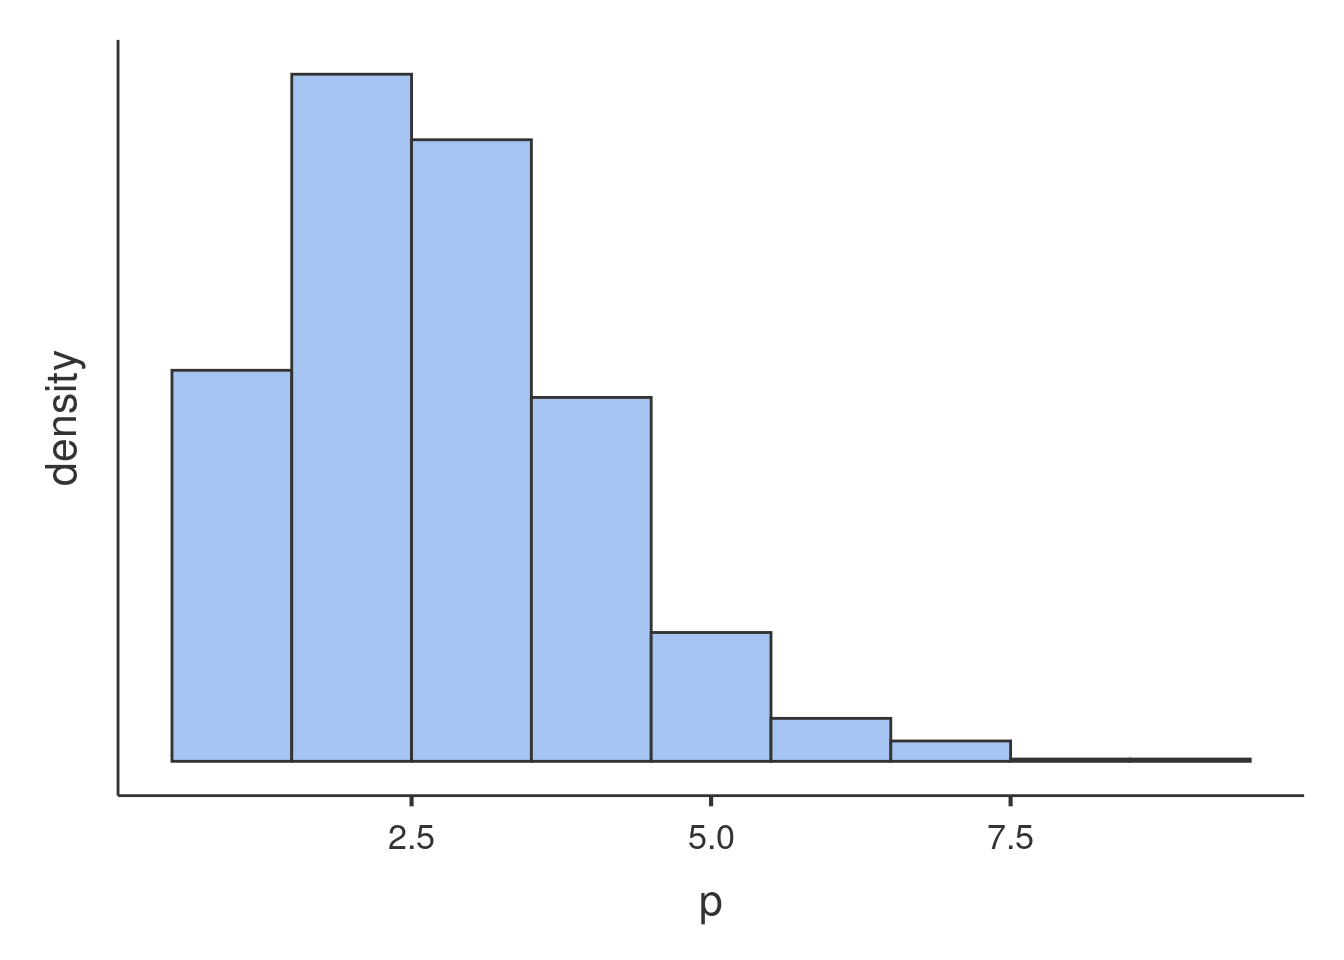
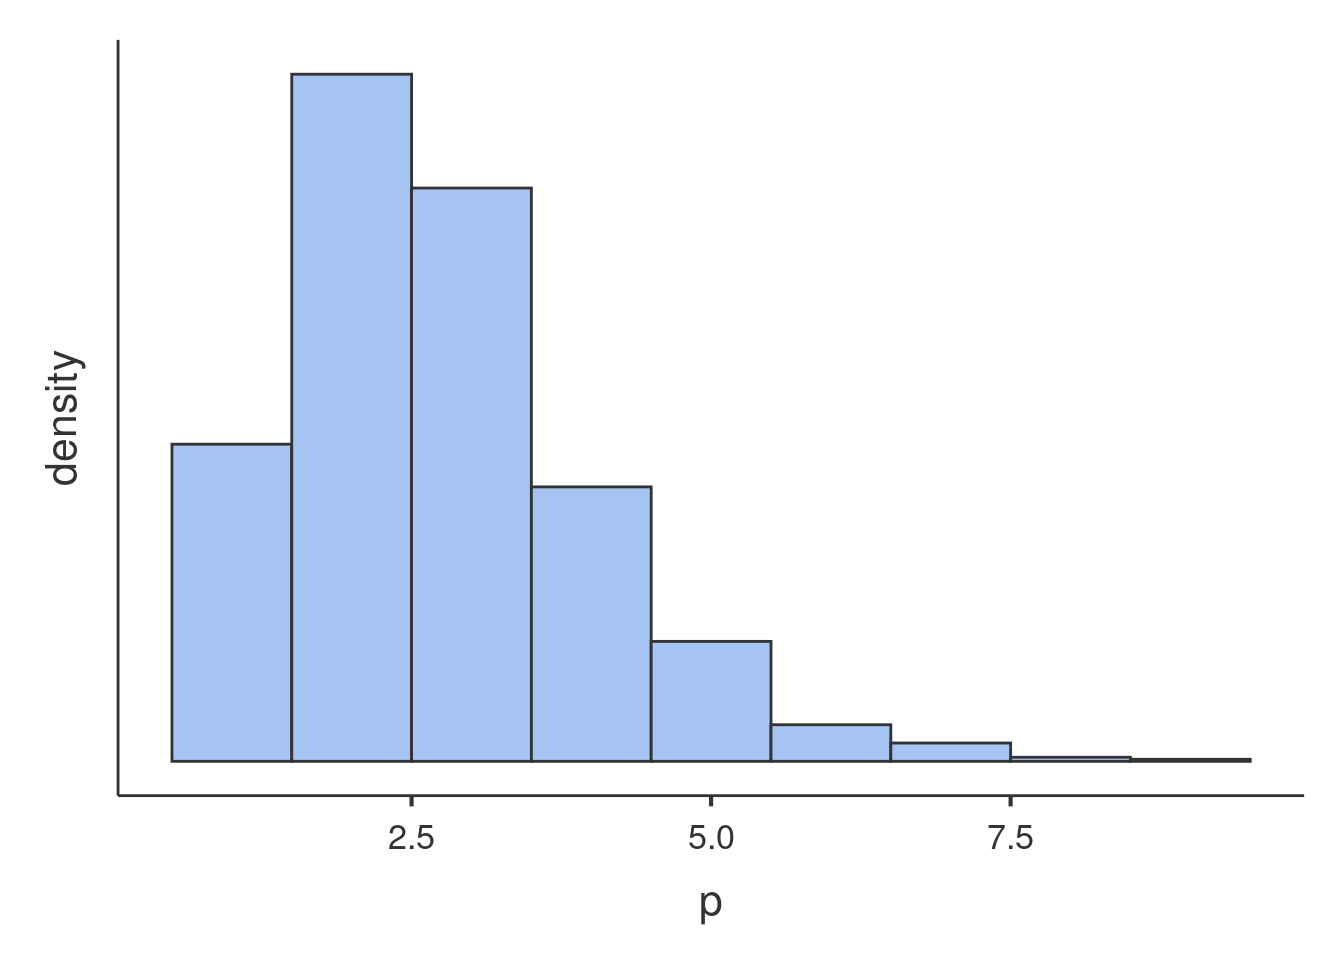
updates

diff --git a/docssource/glmmixed_example2.html b/docssource/glmmixed_example2.html
@@ -389,7 +389,7 @@ div.tocify {
 <p><img src="glmmixed_example2_files/figure-html/unnamed-chunk-2-1.png" width="672" /></p>
 <p>Glancing at the histogram makes it clear that the distribution is not normal, but it roughly resembles the Poisson distribution. Here is an example of Poisson distribution with equivalent mean.</p>
 <p><img src="glmmixed_example2_files/figure-html/unnamed-chunk-3-1.png" width="672" /></p>
-<p>We can see that the shape of our distribution is not qualitatively very different as compared with a theoretical Poisson distribution, so a Generalized Linear Model with Poisson distribition may work. However, we can check wheather our distribution is in line with the features of the Poisson dist by checking its mean and variance. The Poisson distribution has variance equal to the mean, in fact the simulated distribution in the histogram has <span class="math inline">\(\bar{x}=1.73\)</span> and <span class="math inline">\(s^2=1.703\)</span>. The <code>art</code> variable distribution has <span class="math inline">\(\bar{x}=1.693\)</span> and <span class="math inline">\(s^2=3.71\)</span>, with a ratio variance/mean of 2.191, which does not really qualify for Poisson dist. This looks like a case of <strong>overdispersion</strong>, <a href="http://bbolker.github.io/mixedmodels-misc/glmmFAQ.html#overdispersion">cf. here for details</a>. We will than consider a Negative Binomial model to account for possible overdispersion.</p>
+<p>We can see that the shape of our distribution is not qualitatively very different as compared with a theoretical Poisson distribution, so a Generalized Linear Model with Poisson distribition may work. However, we can check wheather our distribution is in line with the features of the Poisson dist by checking its mean and variance. The Poisson distribution has variance equal to the mean, in fact the simulated distribution in the histogram has <span class="math inline">\(\bar{x}=1.709\)</span> and <span class="math inline">\(s^2=1.642\)</span>. The <code>art</code> variable distribution has <span class="math inline">\(\bar{x}=1.693\)</span> and <span class="math inline">\(s^2=3.71\)</span>, with a ratio variance/mean of 2.191, which does not really qualify for Poisson dist. This looks like a case of <strong>overdispersion</strong>, <a href="http://bbolker.github.io/mixedmodels-misc/glmmFAQ.html#overdispersion">cf. here for details</a>. We will than consider a Negative Binomial model to account for possible overdispersion.</p>
 <p>An example of Negative Binomial distribution with equivalent mean and variance is here.</p>
 <p><img src="glmmixed_example2_files/figure-html/unnamed-chunk-4-1.png" width="672" /></p>
 <p>The second issue one needs to deal with is the structure of the data. We have seen that the students are not a random sample of students drawn independently one each other, but they are grouped by the program they are enrolled in. There are 83 programs, in each program there are on average 11 students. Because students in the same program may be more similar one each other than across programs, <code>programs</code> may cluster the scores of the dependent variable and create dependency in the data. To take dependency into the account, we will use a random intercepts model estimated with a Generalized Mixed Model.</p>
